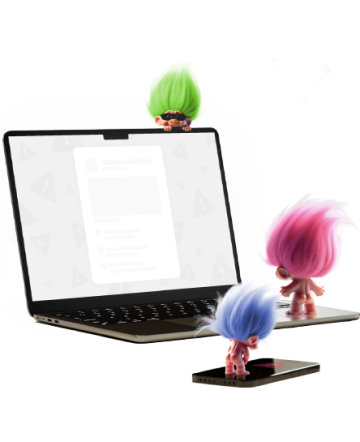
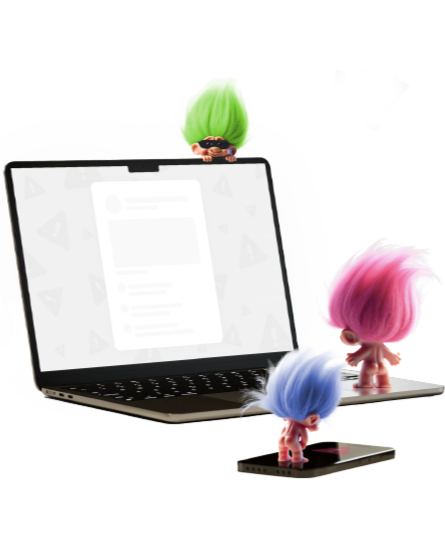
changed img

diff --git a/src/pages/index.vue b/src/pages/index.vue
@@ -174,8 +174,8 @@ const icons = ['/linkedinIcon.png', '/facebookIcon.png', '/instagramIcon.png', '
     </section>
     <section class="mt-[7.484375rem] px-[0.9375rem] md:px-[2rem] xl:px-[6.5625rem]">
       <div class="mx-auto mt-[10.65rem] max-w-[90rem] flex flex-col items-center justify-between lg:flex-row-reverse lg:gap-[6.875rem]">
-        <img class="md:hidden lg:max-w-[34.0625rem]" src="/success-img.png" alt="">
-        <img class="hidden lg:max-w-[34.0625rem] md:flex" src="/success-img-tablet.png" alt="">
+        <img class="md:hidden" src="/success-img.png" alt="">
+        <img class="hidden md:flex" src="/success-img-tablet.png" alt="">
         <div class="mt-[3.75rem] flex flex-col lg:items-start md:items-center">
           <AppPageHeader
             wrapper-class="!items-start"
@@ -210,7 +210,7 @@ Your Audience?"
     </section>
     <section class="px-[0.9375rem] md:px-[2rem] xl:px-[6.5625rem]">
       <div class="mx-auto mt-[10.65rem] max-w-[90rem] flex flex-col items-center justify-between lg:flex-row lg:gap-[6.875rem]">
-        <img class="max-w-[17.5rem] lg:max-w-[34.0625rem]" src="/social-trolls.png" alt="">
+        <img src="/social-trolls.png" alt="">
         <div class="flex flex-col items-center lg:max-w-[32.8125rem] md:items-start">
           <AppPageHeader
             wrapper-class="!lg:items-start"
